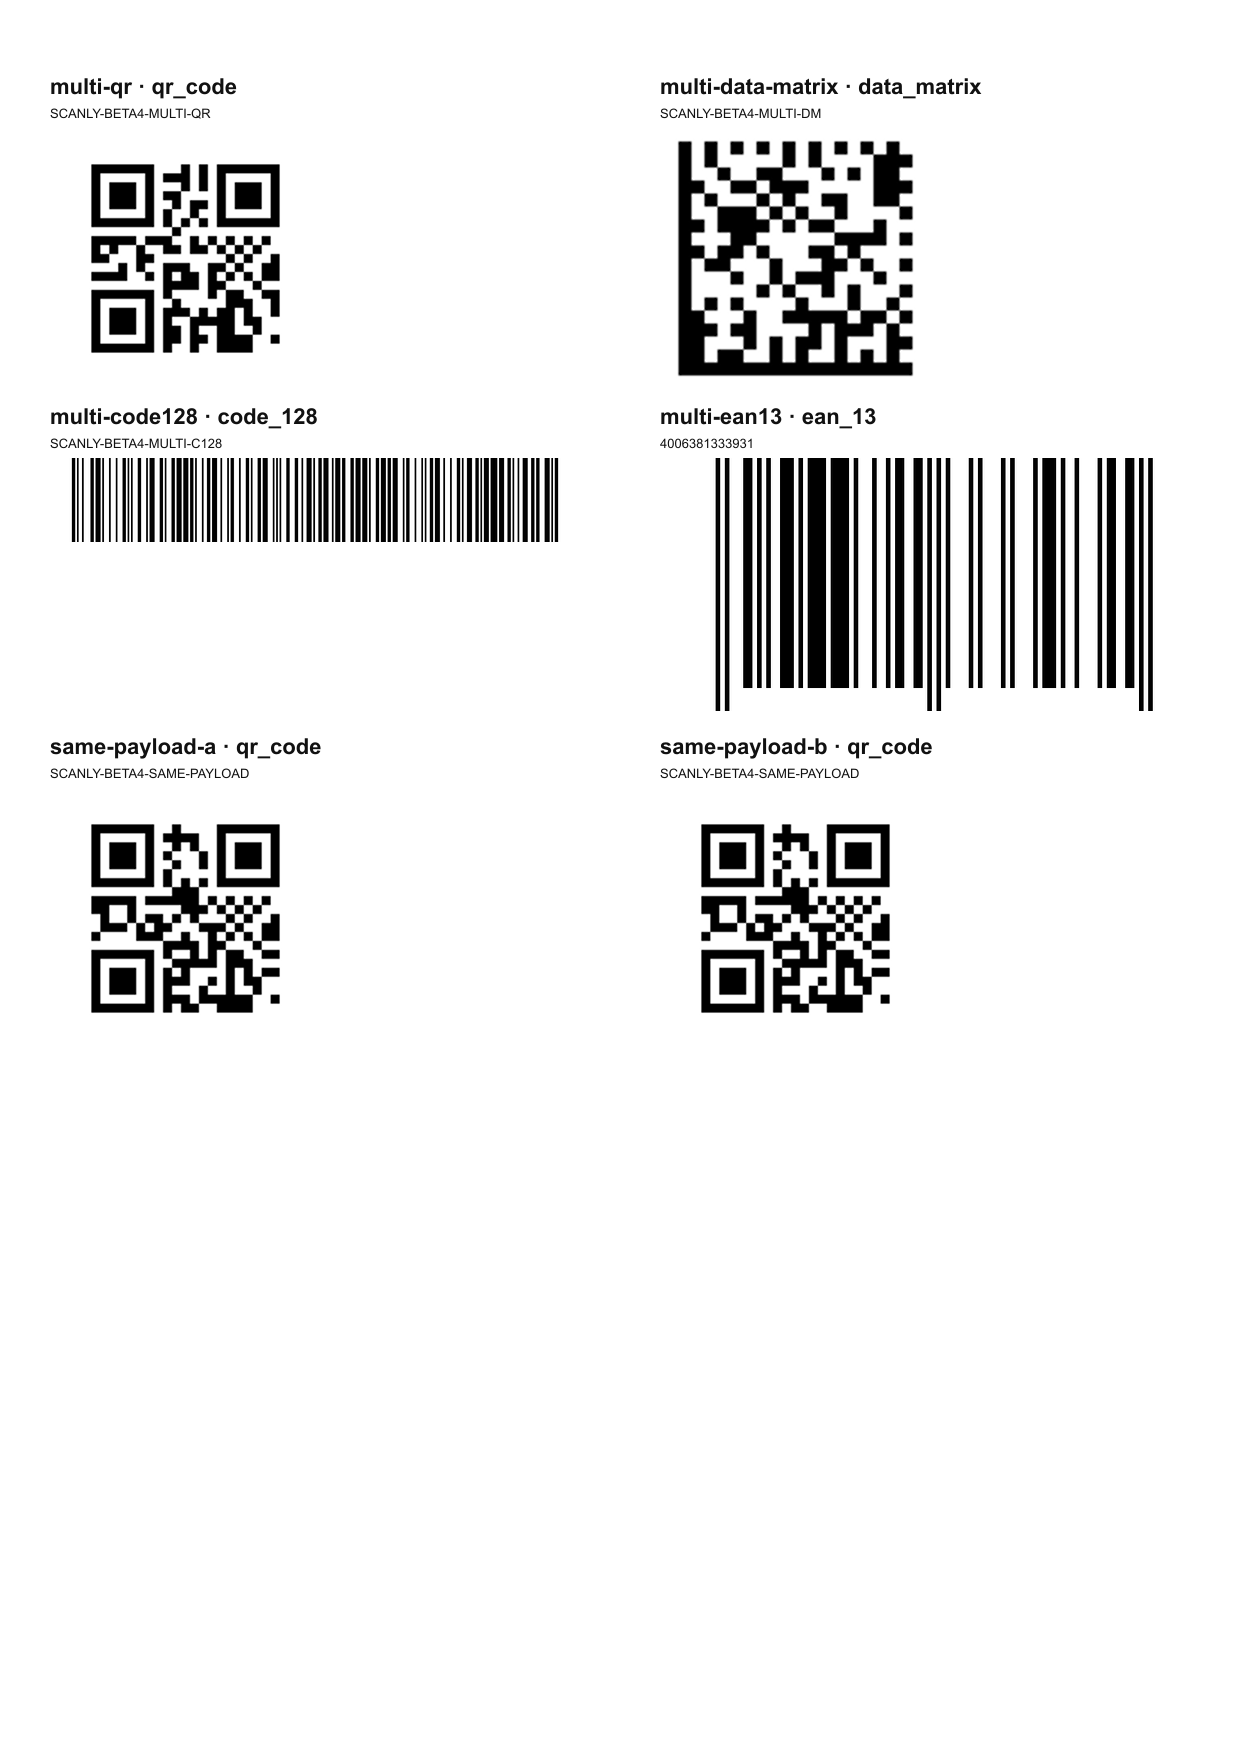
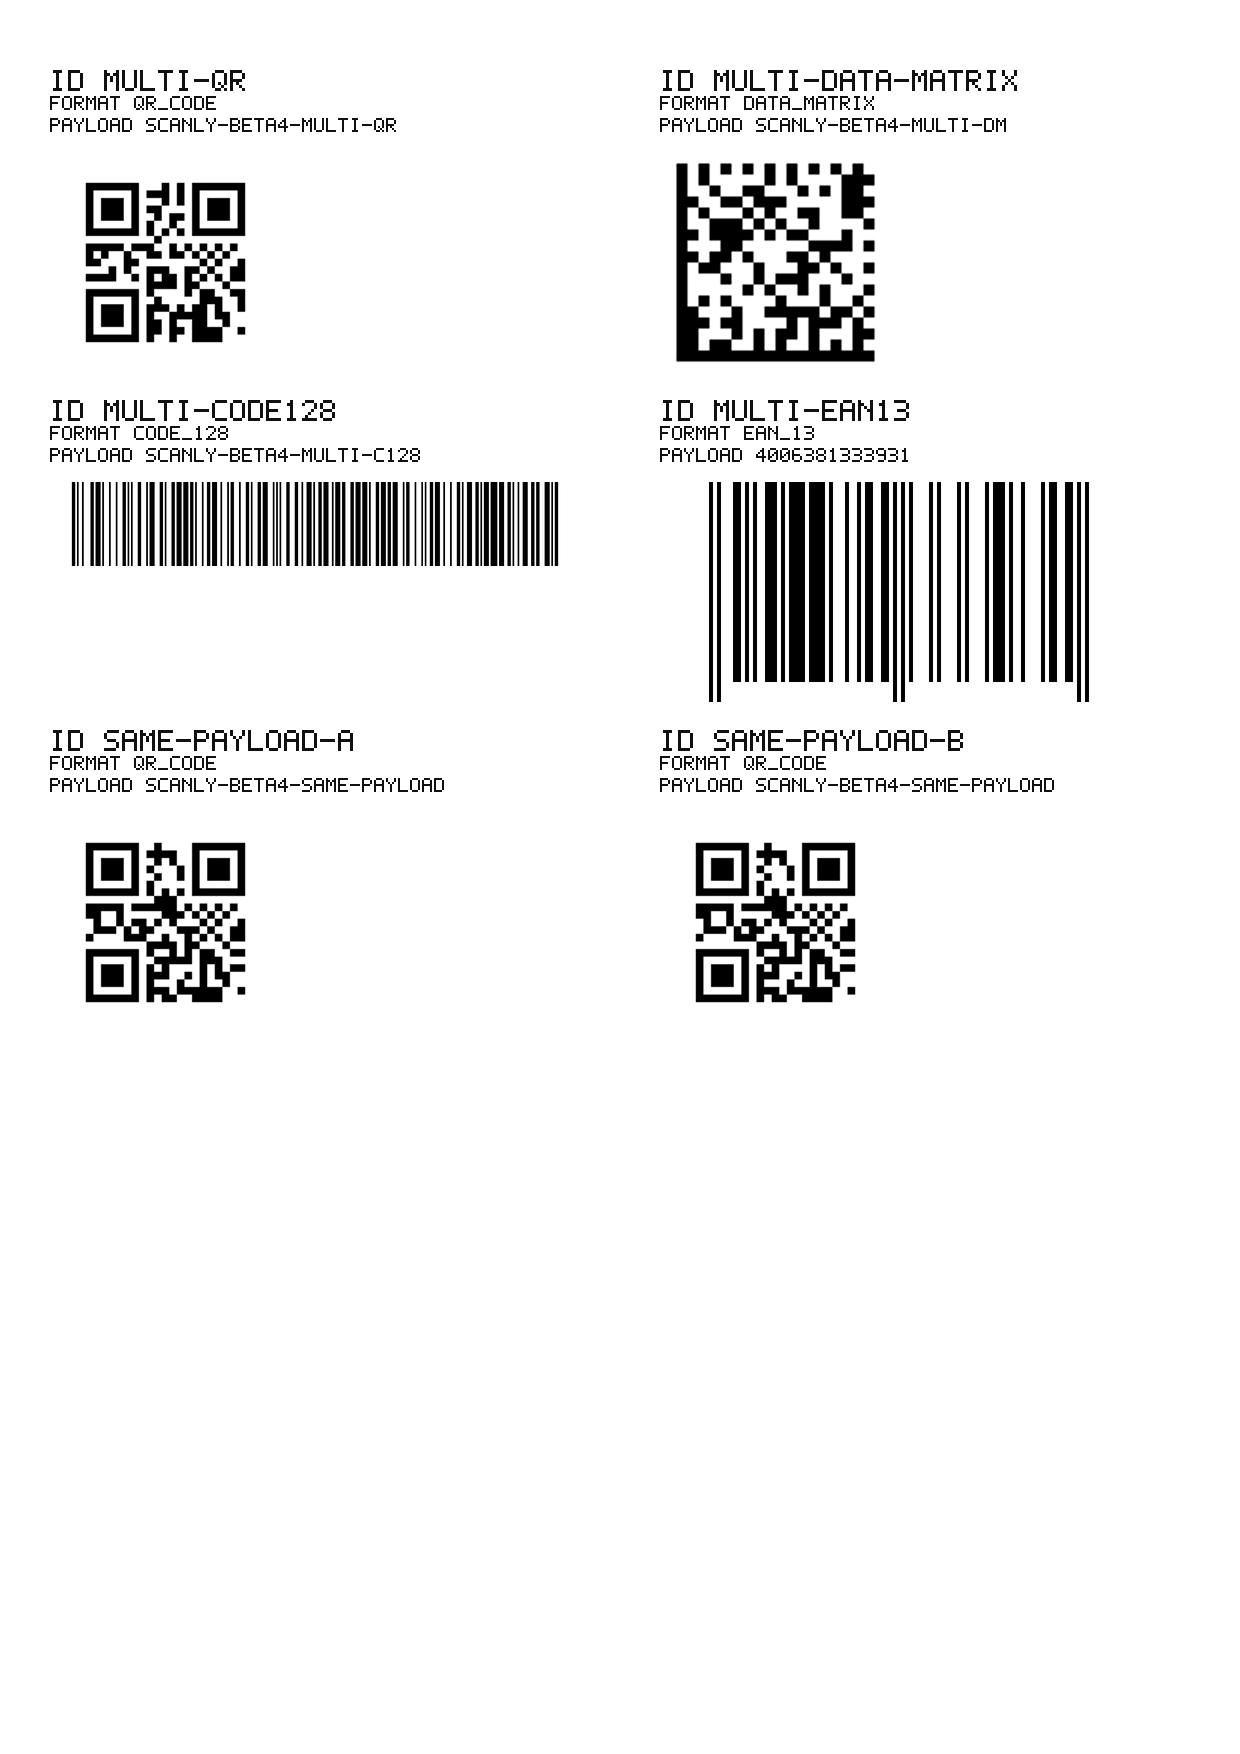
fix(device): make target sheets cross-platform deterministic

diff --git a/scripts/generate-device-test-targets.ts b/scripts/generate-device-test-targets.ts
@@ -24,6 +24,61 @@ interface Target {
 }
 interface GroundTruth { schemaVersion: string; targets: Target[] }
 
+const glyphs: Record<string, string[]> = {
+  " ": ["00000", "00000", "00000", "00000", "00000", "00000", "00000"],
+  "-": ["00000", "00000", "00000", "11111", "00000", "00000", "00000"],
+  "_": ["00000", "00000", "00000", "00000", "00000", "00000", "11111"],
+  ".": ["00000", "00000", "00000", "00000", "00000", "01100", "01100"],
+  "/": ["00001", "00010", "00100", "01000", "10000", "00000", "00000"],
+  ":": ["00000", "01100", "01100", "00000", "01100", "01100", "00000"],
+  "?": ["01110", "10001", "00001", "00010", "00100", "00000", "00100"],
+  "0": ["01110", "10001", "10011", "10101", "11001", "10001", "01110"],
+  "1": ["00100", "01100", "00100", "00100", "00100", "00100", "01110"],
+  "2": ["01110", "10001", "00001", "00010", "00100", "01000", "11111"],
+  "3": ["11110", "00001", "00001", "01110", "00001", "00001", "11110"],
+  "4": ["00010", "00110", "01010", "10010", "11111", "00010", "00010"],
+  "5": ["11111", "10000", "10000", "11110", "00001", "00001", "11110"],
+  "6": ["01110", "10000", "10000", "11110", "10001", "10001", "01110"],
+  "7": ["11111", "00001", "00010", "00100", "01000", "01000", "01000"],
+  "8": ["01110", "10001", "10001", "01110", "10001", "10001", "01110"],
+  "9": ["01110", "10001", "10001", "01111", "00001", "00001", "01110"],
+  A: ["01110", "10001", "10001", "11111", "10001", "10001", "10001"],
+  B: ["11110", "10001", "10001", "11110", "10001", "10001", "11110"],
+  C: ["01111", "10000", "10000", "10000", "10000", "10000", "01111"],
+  D: ["11110", "10001", "10001", "10001", "10001", "10001", "11110"],
+  E: ["11111", "10000", "10000", "11110", "10000", "10000", "11111"],
+  F: ["11111", "10000", "10000", "11110", "10000", "10000", "10000"],
+  G: ["01111", "10000", "10000", "10111", "10001", "10001", "01111"],
+  H: ["10001", "10001", "10001", "11111", "10001", "10001", "10001"],
+  I: ["01110", "00100", "00100", "00100", "00100", "00100", "01110"],
+  J: ["00001", "00001", "00001", "00001", "10001", "10001", "01110"],
+  K: ["10001", "10010", "10100", "11000", "10100", "10010", "10001"],
+  L: ["10000", "10000", "10000", "10000", "10000", "10000", "11111"],
+  M: ["10001", "11011", "10101", "10101", "10001", "10001", "10001"],
+  N: ["10001", "11001", "10101", "10011", "10001", "10001", "10001"],
+  O: ["01110", "10001", "10001", "10001", "10001", "10001", "01110"],
+  P: ["11110", "10001", "10001", "11110", "10000", "10000", "10000"],
+  Q: ["01110", "10001", "10001", "10001", "10101", "10010", "01101"],
+  R: ["11110", "10001", "10001", "11110", "10100", "10010", "10001"],
+  S: ["01111", "10000", "10000", "01110", "00001", "00001", "11110"],
+  T: ["11111", "00100", "00100", "00100", "00100", "00100", "00100"],
+  U: ["10001", "10001", "10001", "10001", "10001", "10001", "01110"],
+  V: ["10001", "10001", "10001", "10001", "10001", "01010", "00100"],
+  W: ["10001", "10001", "10001", "10101", "10101", "10101", "01010"],
+  X: ["10001", "10001", "01010", "00100", "01010", "10001", "10001"],
+  Y: ["10001", "10001", "01010", "00100", "00100", "00100", "00100"],
+  Z: ["11111", "00001", "00010", "00100", "01000", "10000", "11111"],
+};
+
+function bitmapText(text: string, x: number, y: number, scale: number): string {
+  return [...text.toUpperCase()].flatMap((character, characterIndex) => {
+    const glyph = glyphs[character] ?? glyphs["?"];
+    return glyph.flatMap((row, rowIndex) => [...row].map((bit, columnIndex) => bit === "1"
+      ? `<rect x="${x + characterIndex * 6 * scale + columnIndex * scale}" y="${y + rowIndex * scale}" width="${scale}" height="${scale}"/>`
+      : ""));
+  }).join("");
+}
+
 const native: Record<Format, "QRCode" | "DataMatrix" | "PDF417" | "Code128" | "EAN13"> = {
   qr_code: "QRCode", data_matrix: "DataMatrix", pdf417: "PDF417", code_128: "Code128", ean_13: "EAN13",
 };
@@ -57,13 +112,15 @@ async function expectedFiles(): Promise<Map<string, Buffer>> {
   const pageWidth = 1_240; const pageHeight = 1_754;
   for (const [pageIndex, pageTargets] of [truth.targets.slice(0, 10), truth.targets.slice(10)].entries()) {
     const cells = await Promise.all(pageTargets.map(async (target) => {
-      const bytes = await symbol(target); const fit = await sharp(bytes).resize({ width: 520, height: 260, fit: "inside" }).png().toBuffer();
+      const bytes = await symbol(target); const fit = await sharp(bytes).resize({ width: 520, height: 220, fit: "inside" }).png().toBuffer();
       return { target, fit };
     }));
     const composites = cells.map(({ target, fit }, index) => {
       const column = index % 2; const row = Math.floor(index / 2); const left = 50 + column * 610; const top = 70 + row * 330;
-      const label = Buffer.from(`<svg width="560" height="310"><style>text{font-family:Arial,sans-serif;fill:#111}.id{font-size:22px;font-weight:bold}.payload{font-size:13px}</style><text x="0" y="24" class="id">${target.targetId} · ${target.format}</text><text x="0" y="48" class="payload">${target.payload.replaceAll("&", "&amp;")}</text></svg>`);
-      return [{ input: label, left, top }, { input: fit, left: left + 5, top: top + 58 }] as const;
+      // Host fonts rasterize differently on Windows and Linux. The embedded
+      // bitmap glyphs keep printable labels readable and byte-deterministic.
+      const label = Buffer.from(`<svg xmlns="http://www.w3.org/2000/svg" width="560" height="76"><g fill="#111">${bitmapText(`ID ${target.targetId}`, 0, 0, 3)}${bitmapText(`FORMAT ${target.format}`, 0, 26, 2)}${bitmapText(`PAYLOAD ${target.payload}`, 0, 48, 2)}</g></svg>`);
+      return [{ input: label, left, top }, { input: fit, left: left + 5, top: top + 82 }] as const;
     }).flat();
     const printable = await sharp({ create: { width: pageWidth, height: pageHeight, channels: 3, background: "#ffffff" } }).composite(composites).png({ compressionLevel: 9 }).toBuffer();
     const suffix = pageIndex === 0 ? "" : `-page-${pageIndex + 1}`;
